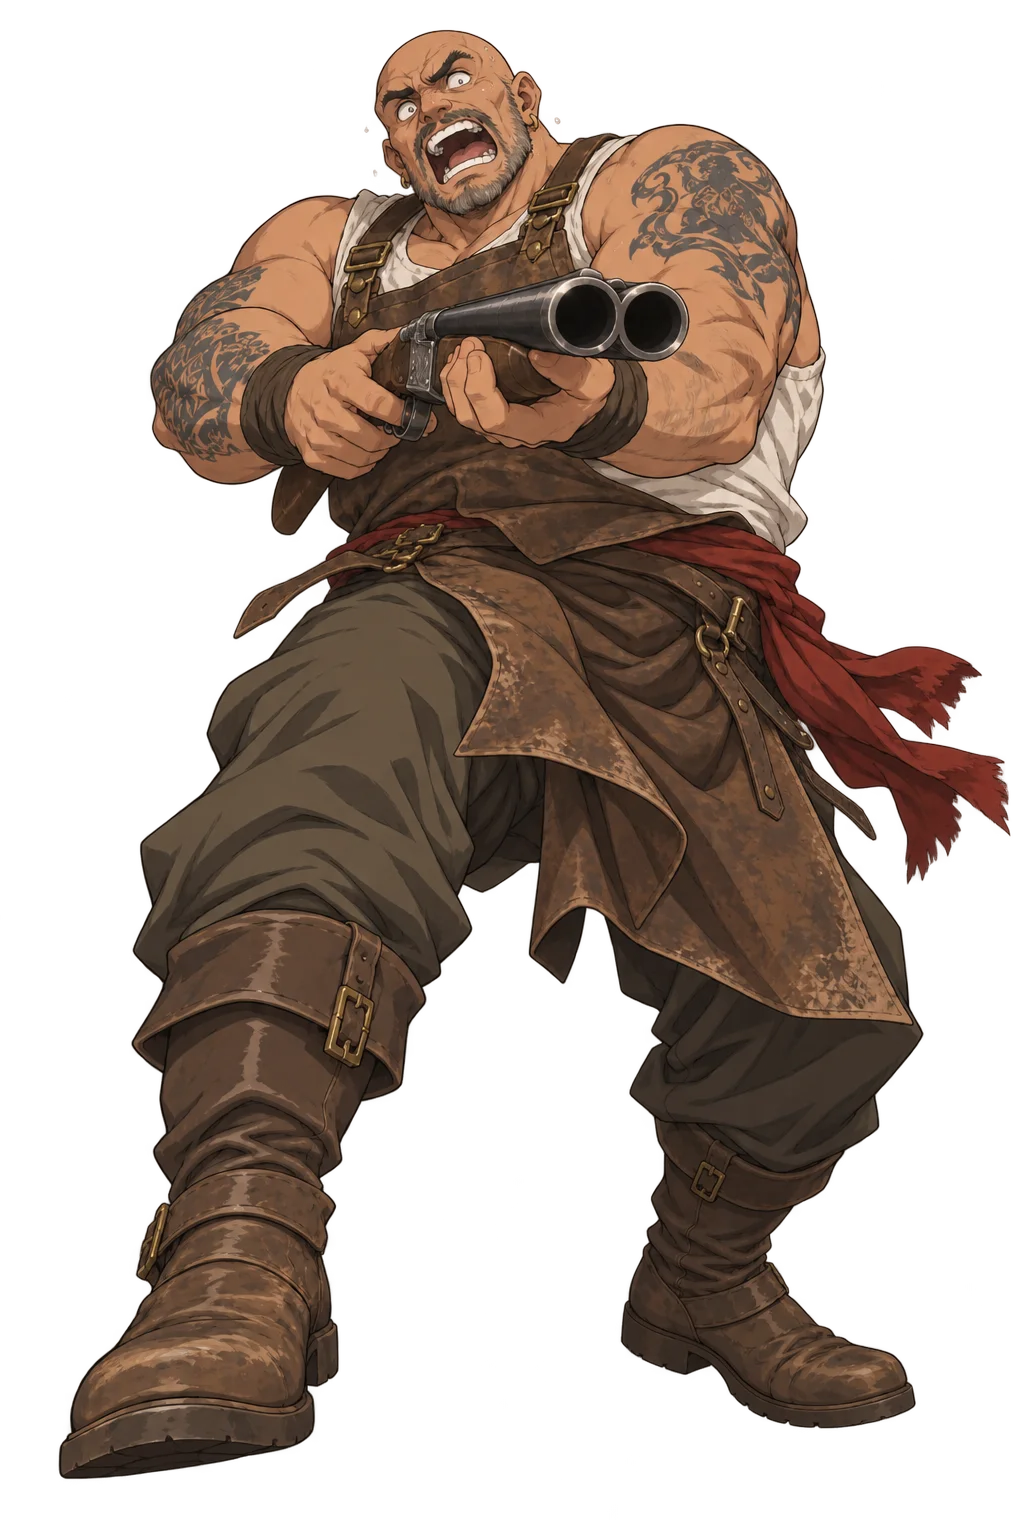
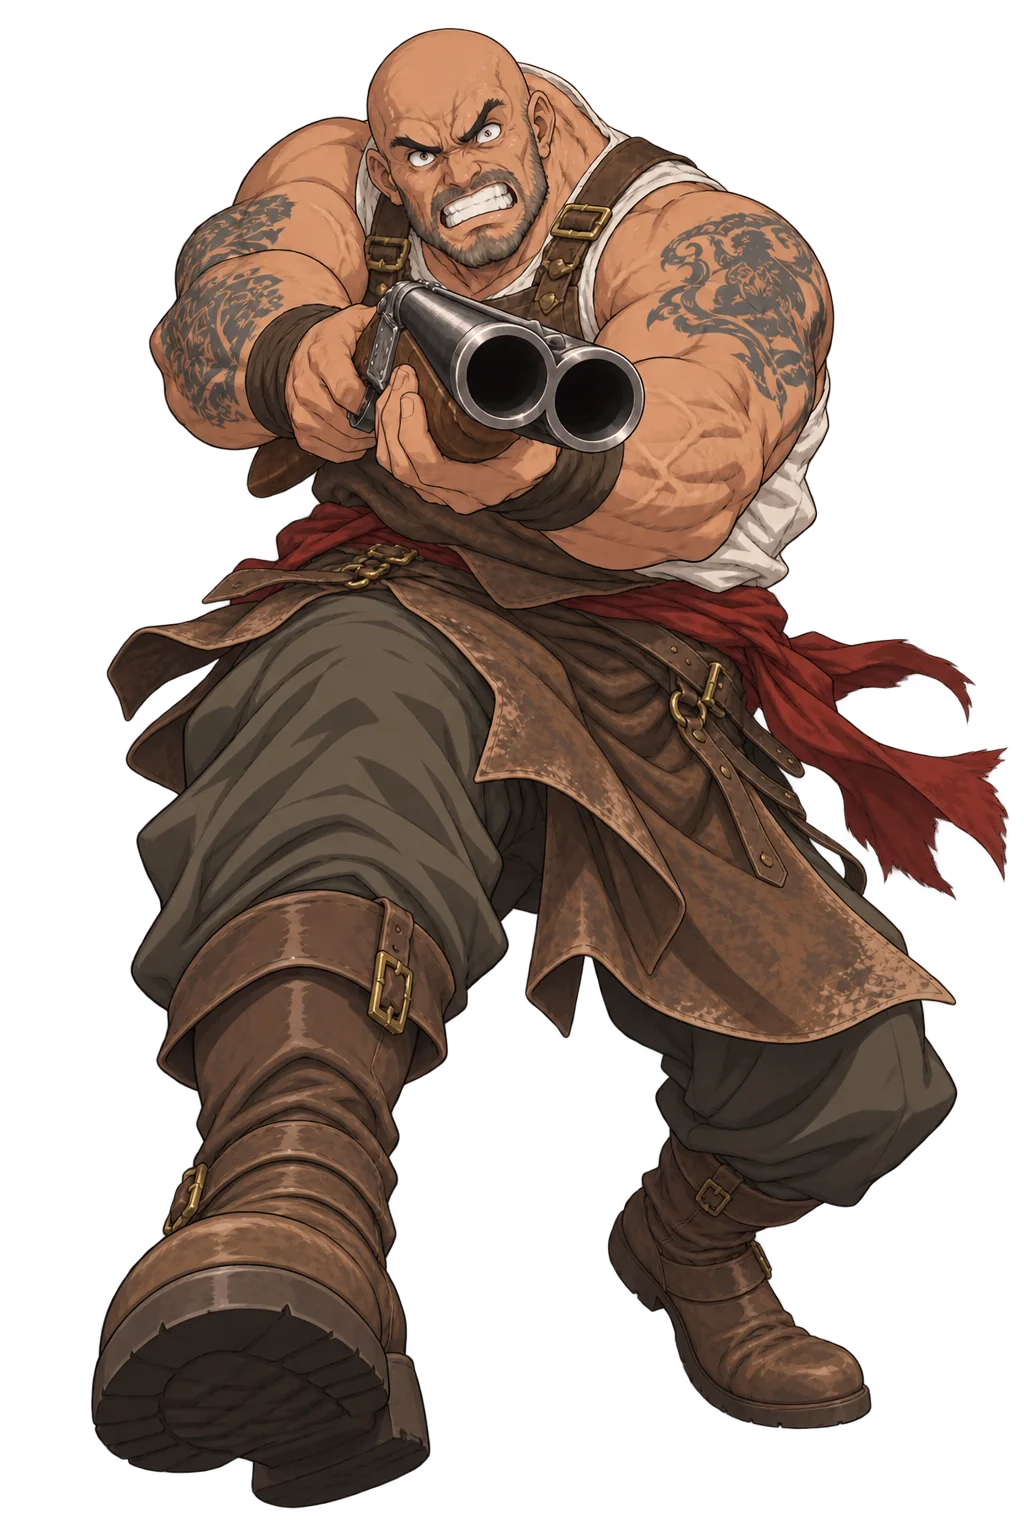
art(惡棍系): 6／6 全交 —— lookout、shotgun v2（暴怒反撲，同名覆蓋）；HANDOFF 15

diff --git a/HANDOFF.md b/HANDOFF.md
@@ -40,6 +40,9 @@
 >    `restaurant:{ bg:'sofia_restaurant', name:'聖索菲亞　餐廳', noTime:true, exits:{back:'tavern'} }`。
 >    ⚠ 新增兩格 ⇒ 小地圖 `map_santasofia` 要補兩個點（美術另開一單）；`map_layout.py` 補 `POS`。圖都已在庫，不用跳 `ASSET_VER`。
 >    ⚠⚠ 薇拉馮德工單 §五原本寫 `dining.scenes.bar` —— **同一個坑，已改掉**，見第 13 項／`_verafond_spec.md` §五。
+> 15. **（09-26 晚，Mac）惡棍系敵人 6 張 `man_thug_*`**（Ray：「`ssophia_si_thug` 這個系列風格的惡棍，大多用手槍、步槍，1900 年」「被突擊的感覺、不要女的、表情動作多變化」）——
+>    `resources/enemy/man_thug_{pistol,shotgun,rifle,dual,lookout,boss}.webp`（1024×1536、真 alpha）；規格與每人的反應在 `resources/enemy/_thug_spec.md`、總覽 `_thug_all6_sheet.jpg`。
+>    程式端要做的（等 Ray 給卡）：`config.enemies` 各一張敵人卡，`kind:'human'`（結算「已擊敗」、**不吃**降臨／淨化演出）；圖路徑直接指 `resources/enemy/man_thug_*.webp`。全是新檔，不用跳 `ASSET_VER`。
 > 美術現況與換機器交接：**`resources/_HANDOFF_ART_20260925.md`**（§七＝米夏九張；§八＝廢城兩次退稿到定風格；**§九＝聖索菲亞 9 張＋廢城 55 張全交、產線的坑**）（Windows 那台收工版；09-24 那份 §六～§八是細節）。做完把這一塊刪掉或標成已接。
 
 > ✅ **`tomb_misha_met` 東泊那一邊 -1717 接上了**（Ray 定案：AB 順序長談在「滿足滿足！」收場、

diff --git a/resources/enemy/_thug_spec.md b/resources/enemy/_thug_spec.md
@@ -45,7 +45,7 @@
 ```
 
 ## 進度
-- [x] pistol　- [x] rifle　- [x] dual　- [ ] shotgun（重出中）　- [ ] lookout（去背中）　- [x] boss
+- [x] pistol　- [x] rifle　- [x] dual　- [x] shotgun（v2 暴怒反撲）　- [x] lookout　- [x] boss　⇒ **6／6 全交**（總覽 `_thug_all6_sheet.jpg`）
 
 ## 交件紀錄
 - 09-26 19:30：`man_thug_pistol`／`man_thug_shotgun` ✔（第二版＝被突襲的慌亂版；真 alpha，半透明像素近白 0.0%）。
@@ -55,3 +55,5 @@
 - 19:45：`man_thug_dual`（邊退邊盲射）／`man_thug_rifle`（跪地裝彈）／`man_thug_boss`（咬雪茄下令）✔ 真 alpha、近白 0.0%。
   ⚠ 第一輪三張全部是同一種「張大嘴驚叫」—— 光寫「慌亂、大吼」模型只會出這一種；**要逐張指定一種反應，並明寫「不要張大嘴驚叫（別人用過了）」**才拉得開。
   ⚠ 雙槍的槍口硝煙貼右緣（0.5%），人物本體沒被裁。
+- 19:55：`man_thug_lookout`（扭頭叫人；棋盤格 → 原串「100% 保留，只把背景變真透明」一次成功）／`man_thug_shotgun` **v2 暴怒反撲**（同名覆蓋，舊驚吼版進 `_recycle/`，原稿留 `_originals/enemy/_man_thug_shotgun_v1_shout.png`）✔。
+  ⚠ 程式端還沒引用 `man_thug_*` ⇒ 這次同名覆蓋**不用**跳 `ASSET_VER`。
